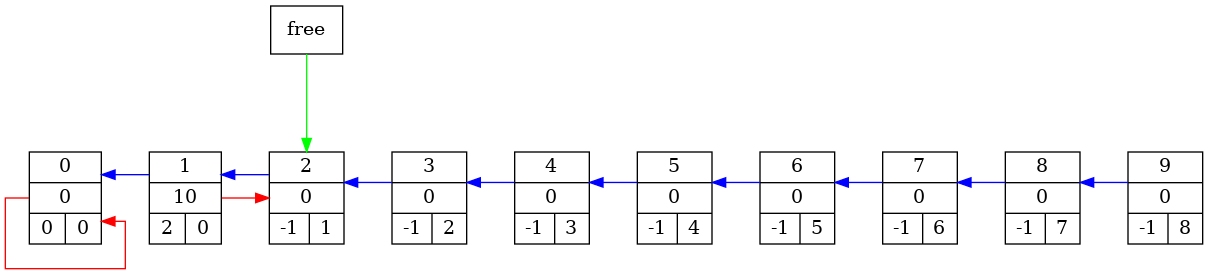
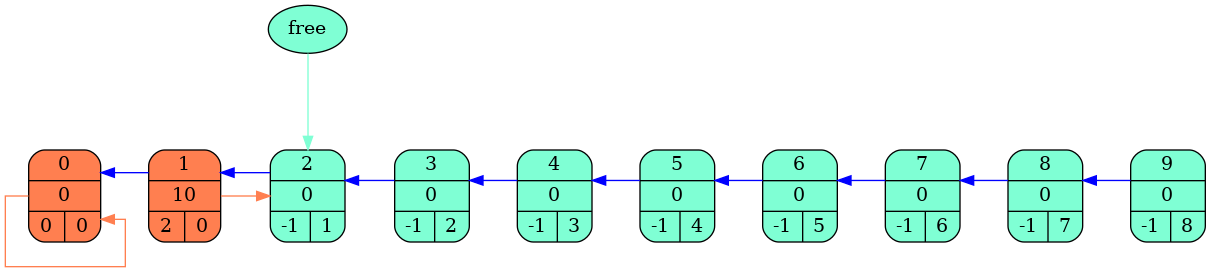
add collor

Changed region(s): [[0.0, 0.5, 1.0, 0.9118], [0.2144, 0.0, 0.3063, 0.2059], [0.0, 0.9706, 0.1225, 1.0]]

diff --git a/src/log.html b/src/log.html
@@ -4,67 +4,78 @@ capacity: 10
 head:     1
 tail:     1
 free:     1
-<img src="../src/output1.png" width="10000" height="20987654300">
+
+<img src="../src/output1.png" width="1200" height="250">
+
 <pre>
 size:     1
 capacity: 10
 head:     1
 tail:     2
 free:     2
-<img src="../src/output2.png" width="10000" height="20987654300">
+
+<img src="../src/output2.png" width="1200" height="250">
+
 <pre>
 size:     2
 capacity: 10
 head:     1
 tail:     3
 free:     3
-<img src="../src/output3.png" width="10000" height="20987654300">
+
+<img src="../src/output3.png" width="1200" height="250">
+
 <pre>
 size:     3
 capacity: 10
 head:     1
 tail:     4
 free:     4
-<img src="../src/output4.png" width="10000" height="20987654300">
+
+<img src="../src/output4.png" width="1200" height="250">
+
 <pre>
 size:     4
 capacity: 10
 head:     1
 tail:     5
 free:     5
-<img src="../src/output5.png" width="10000" height="20987654300">
+
+<img src="../src/output5.png" width="1200" height="250">
+
 <pre>
 size:     5
 capacity: 10
 head:     1
 tail:     6
 free:     6
-<img src="../src/output6.png" width="10000" height="20987654300">
+
+<img src="../src/output6.png" width="1200" height="250">
+
 <pre>
 size:     6
 capacity: 10
 head:     1
 tail:     7
 free:     7
-<img src="../src/output7.png" width="10000" height="20987654300">
+
+<img src="../src/output7.png" width="1200" height="250">
+
 <pre>
-size:     7
+size:     8
 capacity: 10
 head:     1
-tail:     8
-free:     8
-<img src="../src/output8.png" width="10000" height="20987654300">
+tail:     9
+free:     9
+
+<img src="../src/output8.png" width="1200" height="250">
+
 <pre>
 size:     9
 capacity: 20
 head:     1
 tail:     10
 free:     10
-<img src="../src/output9.png" width="10000" height="20987654300">
-<pre>
-size:     11
-capacity: 20
-head:     1
-tail:     12
-free:     12
-<img src="../src/output10.png" width="10000" height="20987654300">
+
+<img src="../src/output9.png" width="1200" height="250">
+

diff --git a/list_debug.cpp b/list_debug.cpp
@@ -1,4 +1,4 @@
-#include "list_debug.hpp"
+#include "include/list_debug.hpp"
 
 static int number_png = 0;
 
@@ -9,9 +9,9 @@ void dump(list *lst) {
 
     fprintf(log_file, "size:     %lu\n", lst->size);
     fprintf(log_file, "capacity: %lu\n", lst->capacity);
-    fprintf(log_file, "head:     %d\n", lst->head);
-    fprintf(log_file, "tail:     %d\n", lst->tail);
-    fprintf(log_file, "free:     %d\n", lst->free);
+    fprintf(log_file, "head:     %d\n",  lst->head);
+    fprintf(log_file, "tail:     %d\n",  lst->tail);
+    fprintf(log_file, "free:     %d\n",  lst->free);
 
 
     // fprintf(log_file, "n:\n");
@@ -36,18 +36,22 @@ void dump(list *lst) {
 
     dump_grapviz(lst);
 
-    fprintf(log_file, "<img src=\"../src/output%d.png\" width=\"10000\" height=\"20987654300\">\n", number_png);
+    fprintf(log_file, "\n<img src=\"../src/output%d.png\" width=\"1200\" height=\"250\">\n\n", number_png);
 }
 
 void dump_grapviz(list *lst) {
+
     assert(lst != nullptr && "null pointer");
     const char *GRAF_FILE = "/mnt/c/Users/User/Desktop/programs/list/src/graph.dot";
+
     FILE *graph = fopen(GRAF_FILE, "w");
+
     fprintf(graph, "digraph {\n");
-    fprintf(graph, "\t\nnodesep = 1\n\tsplines = ortho\n\tnode [shape=record]\n\trankdir=LR\n\n");
+    fprintf(graph, "\t\nnodesep = 1\n\tsplines = ortho\n\tnode [shape=Mrecord]\n\trankdir=LR\n\n");
 
     for (unsigned i = 0; i < lst->capacity; i++) {
-        fprintf(graph, "\tstruct%d [label=\"%d|%d|{%d|%d}\"]\n", i, i, lst->data[i].elem, lst->data[i].next, lst->data[i].prev);
+        if (lst->data[i].next != -1) fprintf(graph, "\tstruct%d [style=filled, fillcolor=\"#FF7F50\", label=\"%d|%d|{%d|%d}\"]\n", i, i, lst->data[i].elem, lst->data[i].next, lst->data[i].prev);
+        else                         fprintf(graph, "\tstruct%d [style=filled, fillcolor=\"#7FFFD4\", label=\"%d|%d|{%d|%d}\"]\n", i, i, lst->data[i].elem, lst->data[i].next, lst->data[i].prev);
     }
     fprintf(graph, "\n");
 
@@ -57,7 +61,7 @@ void dump_grapviz(list *lst) {
     fprintf(graph, "\n");
 
     for (unsigned i = 0; i < lst->capacity && lst->data[i].next != -1 ; i++) {
-        fprintf(graph, "\tstruct%d -> struct%d [color=\"red\", constraint=fasle] \n", i, lst->data[i].next);
+        fprintf(graph, "\tstruct%d -> struct%d [color=\"#FF7F50\", constraint=fasle] \n", i, lst->data[i].next);
     }
     fprintf(graph, "\n");
 
@@ -66,15 +70,17 @@ void dump_grapviz(list *lst) {
     }
     fprintf(graph, "\n");
 
-    // fprintf(graf, "\tfree [shape=rectangle, fillcolor=#98FB98]\n");
+    fprintf(graph, "\tfree [shape=oval, style=filled, fillcolor=\"#7FFFD4\"]\n");
 
-    fprintf(graph, "\tfree -> struct%d [color=\"green\"] {rank = same; free; struct%d;};\n", lst->free, lst->free);
+    fprintf(graph, "\tfree -> struct%d [color=\"#7FFFD4\"] {rank = same; free; struct%d;};\n", lst->free, lst->free);
 
     fprintf(graph, "}\n");
     fclose(graph);
 
-    char cmd[100] = "";
-    sprintf(cmd, "dot src/graf.dot -Tpng -o src/output%d.png", number_png);
-    system(cmd);
+    const int size_cmd = 100;
+    char cmd[size_cmd] = "";
+
+    sprintf(cmd, "dot src/graph.dot -Tpng -o src/output%d.png", number_png);
     number_png++;
+    system(cmd);
 }

diff --git a/main.cpp b/main.cpp
@@ -1,5 +1,5 @@
-#include "list.hpp"
-#include "list_debug.hpp"
+#include "include/list.hpp"
+#include "include/list_debug.hpp"
 
 
 int main() {
@@ -10,7 +10,7 @@ int main() {
 
     for (int i = 1; i < 5; i++) {
         list_insert(&lst, i, i*10);
-    dump(&lst);
+        dump(&lst);
     }
     // printf("%d\n", list_erase(&lst, 2));
 
@@ -20,15 +20,13 @@ int main() {
     //     printf("%d\n", list_erase(&lst, ));
 
     // // } 
-    // printf("%d\n", list_erase(&lst, lst.tail - 1));
+    // printf("%d\n", list_erase(&lst, 2));
     // dump(&lst);
     // printf("%d\n", list_erase(&lst, lst.tail - 1));
     // dump(&lst);
     // printf("%d\n", list_erase(&lst, lst.tail - 1));
     // dump(&lst);
 
-    list_insert(&lst, 4, 45);
-    dump(&lst);
     list_insert(&lst, 3, 35);
     dump(&lst);
     list_insert(&lst, lst.tail, 50);

diff --git a/include/utils.hpp b/include/utils.hpp
@@ -1,0 +1,26 @@
+#ifndef UTILS_HPP_INCLUDED
+#define UTILS_HPP_INCLUDED
+
+#include <stdio.h>
+#include <stdlib.h>
+#include <assert.h>
+
+#define MULTIPLY 2
+
+
+typedef int elem_data_t;
+
+
+typedef struct {
+    elem_data_t elem;
+    int next, prev;
+} arr_list;
+
+typedef struct {
+    int head, tail, free;
+    arr_list *data;
+    size_t size, capacity;
+    bool is_sorted;
+} list;
+
+#endif 

diff --git a/include/list.hpp b/include/list.hpp
@@ -1,0 +1,17 @@
+#ifndef LIST_HPP_INCLUDED
+#define LIST_HPP_INCLUDED
+#include "utils.hpp"
+
+void list_ctor    (list *lst, int size);
+
+void list_dtor    (list *lst);
+
+void list_realloc (list *lst);
+
+void list_sort    (list *lst);
+
+int list_insert   (list *lst, int ind, elem_data_t value); 
+
+int list_erase    (list *lst, int ind);
+
+#endif

diff --git a/list.cpp b/list.cpp
@@ -1,4 +1,4 @@
-#include "list.hpp"
+#include "include/list.hpp"
 
 FILE *log_file;
 
@@ -199,7 +199,7 @@ elem_data_t list_erase(list *lst, int ind) {
         lst->data[ind].prev = lst->free - 1;
     }
     lst->size--;
-    
+
     for (unsigned i = 1; i < lst->capacity; i++) {
         if (lst->data[i].next == -1) {
             lst->free = i;

diff --git a/include/list_debug.hpp b/include/list_debug.hpp
@@ -1,0 +1,11 @@
+#ifndef LIST_DEBUG_HPP_INCLUDED
+#define LIST_DEBUG_HPP_INCLUDED
+#include "utils.hpp"
+
+extern FILE *log_file;
+
+void dump(list *lst);
+
+void dump_grapviz(list *lst);
+
+#endif
